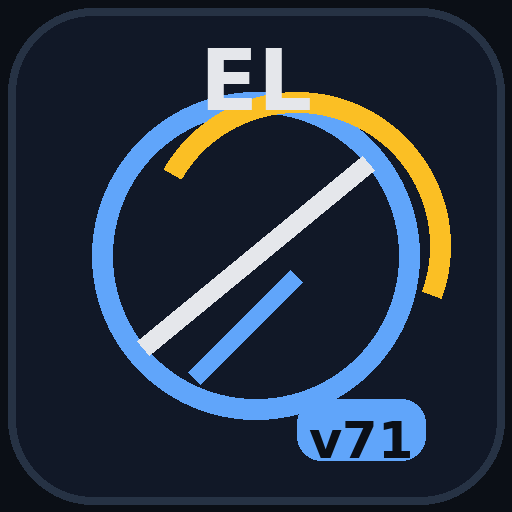
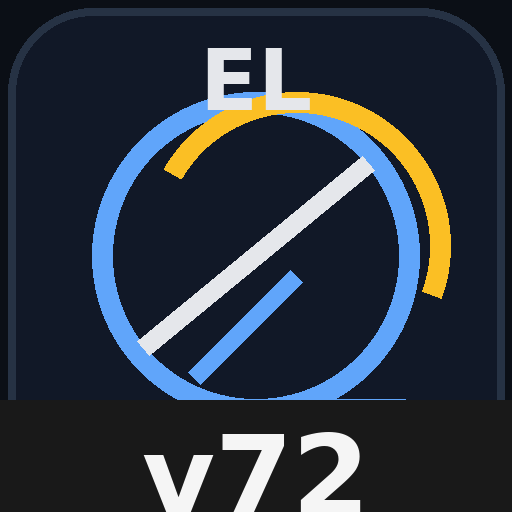
Add files via upload

Changed region(s): [[0.0, 0.7812, 1.0, 1.0]]

diff --git a/app.js b/app.js
@@ -1,7 +1,7 @@
 (() => {
 'use strict';
-const APP_VERSION='v71';
-const BUILD='2026-04-18 16:40';
+const APP_VERSION='v72';
+const BUILD='2026-04-20 10:55';
 const $=id=>document.getElementById(id);
 const STATE_KEY='eliptica_state_current'; const VERSIONED_STATE_KEY=`eliptica_state_${APP_VERSION}`; const LAST_SESSION_KEY='lastCompletedSession'; const state={phase:'idle',countdown:{active:false},plan:null,startTs:null,pausedAccumMs:0,pauseTs:null,elapsedSec:0,machineOffsetSec:0,lastSec:-1,realOffset:0,history:[],logs:[],installPrompt:null,bannerIndex:0,bannerHoldMs:5000,bannerLastChange:0,bpmSamples:[],swReg:null,lastActionTs:0,lastRenderTick:0,wakeLock:null,timeCal:{enabled:false,appRefSec:0,realRefSec:0,factorOverall:1,factorAfterMinute:1},voice:{supported:('speechSynthesis' in window),unlocked:false,enabled:true,voices:[],selectedURI:'',queue:[],speaking:false,lastByKey:{},volume:1,rate:1,browserNotify:false,beepEnabled:true},audio:{ctx:null,unlocked:false},alerts:{lastKey:{},lastSecChecked:-1,lastNotifTs:0,finished:false,pulseSide:'ok',pulseSinceTs:0,pulseLastAlertTs:0},ble:{device:null,server:null,hrChar:null,connected:false,lastPacketTs:0,deviceName:'',autoAttempted:false,status:'EMparejar requerido',detail:'',reconnectAttempts:0,reconnectTimer:null,battery:null,lastRR:null}};
 const els={};
@@ -620,6 +620,9 @@ function machineBaseAtRealFloat(realSec){
 function currentMachineElapsedBaseFloat(){
   return machineBaseAtRealFloat(currentRealElapsedFloat());
 }
+function currentMachineElapsedBase(){
+  return Math.max(0, Math.floor(currentMachineElapsedBaseFloat()));
+}
 function currentMachineElapsedRawFloat(){
   return Math.max(0, currentMachineElapsedBaseFloat() + Number(state.machineOffsetSec||0));
 }
@@ -857,7 +860,7 @@ function resetSession(){
   addLog('[SESSION] Reseteada');
 }
 
-function capturePoint(force=false){if(!state.plan) return; const sec=currentElapsed(); const prevSec = state.lastSec; const info=currentSegInfo(sec); const realSec=currentRealElapsed(); const machineRawSec=currentMachineElapsedRaw(); const h=state.history; const last=h[h.length-1]; if(!force && last && last.sec===sec && last.realSec===realSec && last.machineRawSec===machineRawSec) return; const point={sec,realSec,machineRawSec,clock:fmt(sec),realClock:fmt(realSec),machineRawClock:fmt(machineRawSec),level:info?.seg?.level??null,segment:info?.seg?.id??null,kPlan:currentPlanKcal(),kReal:currentRealKcal(),bpm:bpmDisplay(),ts:Date.now()}; if(last && last.sec===sec && last.realSec===realSec) h[h.length-1]=point; else h.push(point); if(h.length>10000) h.shift(); state.lastSec=sec; if(prevSec>=0 && sec!==prevSec) evaluateAlertsRange(prevSec, sec, force?'force':'tick'); }
+function capturePoint(force=false){if(!state.plan) return; const sec=currentElapsed(); const prevSec = state.lastSec; const info=currentSegInfo(sec); const realSec=currentRealElapsed(); const machineBaseSec=currentMachineElapsedBase(); const machineRawSec=currentMachineElapsedRaw(); const h=state.history; const last=h[h.length-1]; if(!force && last && last.sec===sec && last.realSec===realSec && last.machineRawSec===machineRawSec) return; const point={sec,realSec,machineBaseSec,machineRawSec,clock:fmt(sec),realClock:fmt(realSec),machineBaseClock:fmt(machineBaseSec),machineRawClock:fmt(machineRawSec),level:info?.seg?.level??null,segment:info?.seg?.id??null,kPlan:currentPlanKcal(),kReal:currentRealKcal(),bpm:bpmDisplay(),ts:Date.now()}; if(last && last.sec===sec && last.realSec===realSec) h[h.length-1]=point; else h.push(point); if(h.length>10000) h.shift(); state.lastSec=sec; if(prevSec>=0 && sec!==prevSec) evaluateAlertsRange(prevSec, sec, force?'force':'tick'); }
 
 function seek(delta){
   if(!state.plan) throw new Error('Carga un plan primero');
@@ -882,11 +885,12 @@ function seek(delta){
     state.machineOffsetSec = nextMachine - machineBaseAtRealFloat(prevRealFloat);
   }
   const nextPlan=currentElapsed();
+  const nextMachineBase=currentMachineElapsedBase();
   const nextMachine=currentMachineElapsedRaw();
   state.lastSec=prevPlan;
   capturePoint(true);
   persist();
-  addLog(`[SEEK] ${delta>0?'+':''}${delta}s → MÁQ ${fmt(nextMachine)} · PLAN ${fmt(nextPlan)} · REAL ${fmt(currentRealElapsed())} · ${earlyWindow?'AMBOS':'SOLO MÁQ'}`);
+  addLog(`[SEEK] ${delta>0?'+':''}${delta}s → BASE ${fmt(nextMachineBase)} · MÁQ ${fmt(nextMachine)} · PLAN ${fmt(nextPlan)} · REAL ${fmt(currentRealElapsed())} · ${earlyWindow?'AMBOS':'SOLO MÁQ'}`);
   if(state.phase==='running') evaluateAlertsRange(prevPlan, nextPlan, 'seek');
   renderAll();
 }
@@ -998,11 +1002,11 @@ function renderStatus(){
 
 
 function renderMetrics(){
-  const sec=currentElapsed(), realSec=currentRealElapsed(), machineRawSec=currentMachineElapsedRaw(), info=currentSegInfo(sec), bpm=bpmDisplay(), freshPulse=hasFreshPulse(6);
+  const sec=currentElapsed(), realSec=currentRealElapsed(), machineBaseSec=currentMachineElapsedBase(), machineRawSec=currentMachineElapsedRaw(), info=currentSegInfo(sec), bpm=bpmDisplay(), freshPulse=hasFreshPulse(6);
   const startBtnNode=$('startBtn');
   if(startBtnNode) startBtnNode.textContent = state.phase==='running' ? '⏸ Pausa' : (state.phase==='paused' ? '▶ Reanudar' : '▶ Empezar');
   if(els.timeBig) els.timeBig.textContent=fmt(machineRawSec);
-  els.timeRealLabel.textContent=`REAL ${fmt(realSec)} · PLAN ${fmt(sec)} · AJ ${state.machineOffsetSec>=0?'+':'-'}${fmt(Math.abs(state.machineOffsetSec||0))}`;
+  els.timeRealLabel.textContent=`REAL ${fmt(realSec)} · BASE ${fmt(machineBaseSec)} · AJ ${state.machineOffsetSec>=0?'+':'-'}${fmt(Math.abs(state.machineOffsetSec||0))} · PLAN ${fmt(sec)}`;
   syncCalibrationUi();
   els.kPlanBig.textContent=currentPlanKcal().toFixed(1);
   els.kRealBig.textContent=currentRealKcal().toFixed(1);
@@ -1077,7 +1081,7 @@ function loadPersisted(){
   }catch(e){addLog('[LOAD] ERROR: '+(e.message||e))}
 }
 function resumeSavedSession(){loadPersisted(); renderAll(); if(state.plan) addLog('[LOAD] Reanudada desde guardado local'); else throw new Error('No hay sesión guardada')}
-function summaryText(){const segs=buildSegmentSummary(); const lines=[`ELÍPTICA ${APP_VERSION}`,`Tiempo máquina: ${fmt(currentMachineElapsedRaw())}`,`Tiempo plan: ${fmt(currentElapsed())}`,`Tiempo real: ${fmt(currentRealElapsed())}`,`Ajuste máquina: ${state.machineOffsetSec>=0?'+':'-'}${fmt(Math.abs(state.machineOffsetSec||0))}`,`Calibración activa: ${state.timeCal.enabled?'SÍ':'NO'}`,`Factor general: ${fmtFactor10(state.timeCal.factorOverall||1)}`,`Factor desde 01:00: ${fmtFactor10(state.timeCal.factorAfterMinute||1)}`,`Kcal plan: ${currentPlanKcal().toFixed(1)}`,`Kcal real: ${currentRealKcal().toFixed(1)}`,`Desvío total: ${totalDeviation().toFixed(1)} kcal`,`Ritmo real: ${realRate().toFixed(2)} kcal/min`,`Pulso: ${bpmDisplay()?.toFixed(1)??'--.-'}`,'']; segs.forEach(s=>lines.push(`${s.segment} · N${s.level} · plan ${s.kcalPlan} · real ${s.kcalReal} · desvío ${s.deviation}`)); return lines.join('\n')}
+function summaryText(){const segs=buildSegmentSummary(); const lines=[`ELÍPTICA ${APP_VERSION}`,`Tiempo máquina base: ${fmt(currentMachineElapsedBase())}`,`Tiempo máquina ajustado: ${fmt(currentMachineElapsedRaw())}`,`Tiempo plan: ${fmt(currentElapsed())}`,`Tiempo real: ${fmt(currentRealElapsed())}`,`Ajuste máquina: ${state.machineOffsetSec>=0?'+':'-'}${fmt(Math.abs(state.machineOffsetSec||0))}`,`Calibración activa: ${state.timeCal.enabled?'SÍ':'NO'}`,`Factor general: ${fmtFactor10(state.timeCal.factorOverall||1)}`,`Factor desde 01:00: ${fmtFactor10(state.timeCal.factorAfterMinute||1)}`,`Kcal plan: ${currentPlanKcal().toFixed(1)}`,`Kcal real: ${currentRealKcal().toFixed(1)}`,`Desvío total: ${totalDeviation().toFixed(1)} kcal`,`Ritmo real: ${realRate().toFixed(2)} kcal/min`,`Pulso: ${bpmDisplay()?.toFixed(1)??'--.-'}`,'']; segs.forEach(s=>lines.push(`${s.segment} · N${s.level} · plan ${s.kcalPlan} · real ${s.kcalReal} · desvío ${s.deviation}`)); return lines.join('\n')}
 
 function showFinalSummary(){
   const txt=summaryText();

diff --git a/eliptica_pwa_reescrita_desde_cero_v72_time_engine_rebuild.html b/eliptica_pwa_reescrita_desde_cero_v72_time_engine_rebuild.html
@@ -64,17 +64,6 @@ button{background:#1f2937;border:1px solid #374151;color:#f3f4f6;border-radius:1
       </div>
       <div class="upcoming card" style="padding:0; background:transparent;"><table><thead><tr><th>En</th><th>Hora</th><th>Nivel</th><th>Tramo</th></tr></thead><tbody id="upcomingBody"></tbody></table><div class="small" style="padding:8px 8px 0 8px; font-weight:800;" id="upcomingVisibleLabel">Cambios visibles: 0</div></div>
       <div class="watercard card" style="margin-top:8px;"><div class="between"><div class="title" style="font-size:14px;">💧 Agua</div><div id="waterNextLabel">--</div></div><div class="progress" style="margin-top:6px;"><div class="bar" id="waterProgressBar"></div></div></div>
-      <div class="card" style="margin-top:8px;padding:10px;">
-        <div class="title" style="font-size:14px;">Calibración previa tiempo máquina</div>
-        <div class="small muted" style="margin-top:4px;">Antes de iniciar, pon el tiempo que llevaba la app y el que marcaba la máquina real. El primer minuto irá 1:1.</div>
-        <div style="display:grid;grid-template-columns:1fr 1fr;gap:8px;align-items:end;margin-top:8px;">
-          <label class="small">Tiempo app/plan<input id="calAppRefInput" type="text" placeholder="27:25" style="width:100%;margin-top:4px;background:#0b1220;color:#fff;border:1px solid #334155;border-radius:8px;padding:8px;"></label>
-          <label class="small">Tiempo máquina real<input id="calRealRefInput" type="text" placeholder="28:00" style="width:100%;margin-top:4px;background:#0b1220;color:#fff;border:1px solid #334155;border-radius:8px;padding:8px;"></label>
-          <button id="applyCalBtn" style="background:#17324a;border-color:#2d5d86;">Aplicar calibración</button>
-          <button id="clearCalBtn">Borrar calibración</button>
-        </div>
-        <div class="small" id="calFactorLabel" style="margin-top:8px;color:#cbd5e1;">SIN CALIBRACIÓN PREVIA · REAL Y MÁQUINA A LA PAR</div>
-      </div>
       <div class="controls-bottom"><button class="btn-big btn-green" id="startBtn">▶ Empezar</button><button class="btn-big btn-red" id="resetBtn">↺ Reset</button></div>
     </div>
     <div class="vertcol"><button class="vbtn" id="seekPlus60">+1m</button><button class="vbtn" id="seekPlus10">+10s</button><button class="vbtn" id="seekPlus5">+5s</button><button class="vbtn" id="seekPlus1">+1s</button><button class="vbtn" id="seekMinus1">-1s</button><button class="vbtn" id="seekMinus5">-5s</button><button class="vbtn" id="seekMinus10">-10s</button><button class="vbtn" id="seekMinus60">-1m</button></div>

diff --git a/sw.js b/sw.js
@@ -1,5 +1,5 @@
-const CACHE='eliptica-v71-cache';
-const CORE=['./','./index.html?v=v71','./app.js?v=v71','./manifest.webmanifest?v=v71','./icon-192.png?v=v71','./icon-512.png?v=v71'];
+const CACHE='eliptica-v72-cache';
+const CORE=['./','./index.html?v=v72','./app.js?v=v72','./manifest.webmanifest?v=v72','./icon-192.png?v=v72','./icon-512.png?v=v72'];
 self.addEventListener('install',e=>{
   self.skipWaiting();
   e.waitUntil(caches.open(CACHE).then(c=>c.addAll(CORE)));
@@ -21,10 +21,10 @@ self.addEventListener('fetch',e=>{
       try{
         const fresh=await fetch(e.request,{cache:'no-store'});
         const cache=await caches.open(CACHE);
-        cache.put('./index.html?v=v71', fresh.clone());
+        cache.put('./index.html?v=v72', fresh.clone());
         return fresh;
       }catch(err){
-        return (await caches.match('./index.html?v=v71')) || (await caches.match('./index.html')) || Response.error();
+        return (await caches.match('./index.html?v=v72')) || (await caches.match('./index.html')) || Response.error();
       }
     })());
     return;
